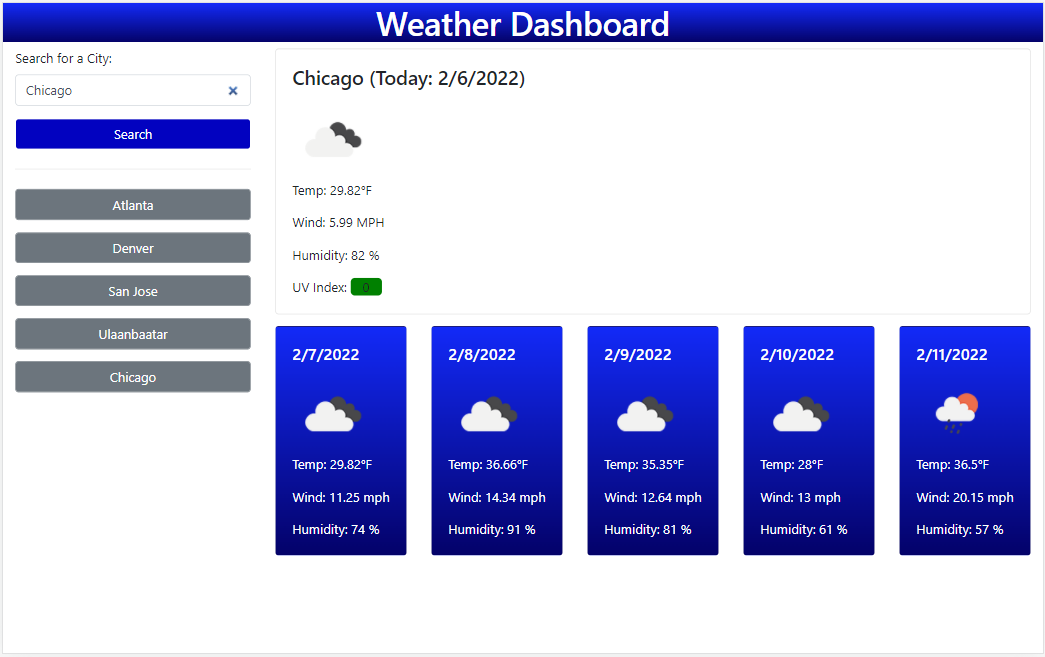
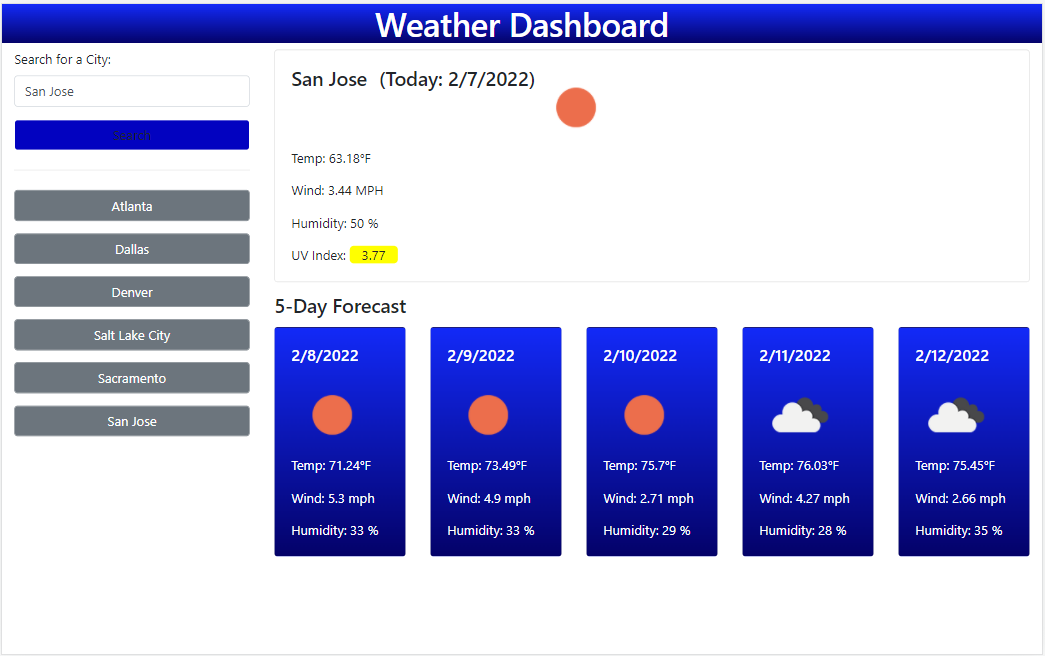
Checks city name then save the name

diff --git a/assets/js/script.js b/assets/js/script.js
@@ -5,8 +5,9 @@ let today = moment();
 const searchBtn = document.getElementById("search-button");
 const cityName = document.getElementById("city-name");
 const searchCity = document.getElementById("search-city");
-const currentCity = document.getElementById("current-city");
 
+const currentCity = document.getElementById("current-city");
+const currentDate = document.getElementById("current-date");
 const currentIcon = document.getElementById("current-icon");
 const currentTemp = document.getElementById("current-temp");
 const currentWind = document.getElementById("current-wind");
@@ -44,27 +45,12 @@ const day5Wind = document.getElementById("day5-wind");
 const day5Humid = document.getElementById("day5-humid");
 
 const cityArray = [];
-let checkCity = "";
 
 function getCityName(event) {
   event.preventDefault();
   const city = cityName.value;
   if (city) {
     getApi(city);
-    console.log(checkCity);
-    if (checkCity === city) {
-      // Create new button for the searched city
-      const newBtn = document.createElement('button');
-      newBtn.classList.add("form-control");
-      newBtn.classList.add("btn");
-      newBtn.classList.add("btn-secondary");
-      newBtn.classList.add("add-space");
-      newBtn.textContent = city;
-      searchCity.appendChild(newBtn);
-      // Save the searched city
-      cityArray.push(city);
-      localStorage.setItem("city", JSON.stringify(cityArray));
-    }
   }
 }
 
@@ -75,77 +61,89 @@ function showForecast(event) {
   getApi(city);
 }
 
-function getApi(cityName) {
+function getApi(newCity) {
 
-  const weatherUrl = `http://api.openweathermap.org/geo/1.0/direct?q=${cityName}&limit=1&appid=${myApiKey}`;
+  const weatherUrl = `http://api.openweathermap.org/geo/1.0/direct?q=${newCity}&limit=1&appid=${myApiKey}`;
 
   fetch(weatherUrl)
     .then(function (response) {
+      console.log(response);
       if (response.ok) {
         response.json().then(function (data) {
-          checkCity = data[0].name;
-          if (checkCity === cityName) {
-          const lat = data[0].lat;
-          const lon = data[0].lon;
+          const checkCity = data[0].name;
+          console.log(checkCity);
+          if (checkCity === newCity) {
+            const lat = data[0].lat;
+            const lon = data[0].lon;
 
-          const newWeatherUrl = `https://api.openweathermap.org/data/2.5/onecall?lat=${lat}&lon=${lon}&appid=${myApiKey}&units=imperial`;
+            const newWeatherUrl = `https://api.openweathermap.org/data/2.5/onecall?lat=${lat}&lon=${lon}&appid=${myApiKey}&units=imperial`;
 
-          fetch(newWeatherUrl)
-          .then(function (response) {
-            return response.json();
-          })
-          .then(function (data) {
-            console.log(data);
-            // Current forecast
-            currentCity.textContent = checkCity + " (Today: " + today.format("l") + ")";
-            currentIcon.setAttribute("src", "http://openweathermap.org/img/wn/" + data.current.weather[0].icon + "@2x.png");
-            currentTemp.textContent = data.current.temp + "°F";
-            currentWind.textContent = data.current.wind_speed + " MPH";
-            currentHumid.textContent = data.current.humidity + " %";
-            currentUvi.textContent = data.current.uvi;
-            colorUvi(data.current.uvi);
-            // Day 1 forecast
-            day1Date.textContent = today.add(1, 'd').format("l");
-            day1Icon.setAttribute("src", "http://openweathermap.org/img/wn/" + data.daily[0].weather[0].icon + "@2x.png");
-            day1Temp.textContent = data.daily[0].temp.max + "°F";
-            day1Wind.textContent = data.daily[0].wind_speed + " mph";
-            day1Humid.textContent = data.daily[0].humidity + " %";
-            // Day 2 forecast
-            day2Date.textContent = today.add(1, 'd').format("l");
-            day2Icon.setAttribute("src", "http://openweathermap.org/img/wn/" + data.daily[1].weather[0].icon + "@2x.png");
-            day2Temp.textContent = data.daily[1].temp.max + "°F";
-            day2Wind.textContent = data.daily[1].wind_speed + " mph";
-            day2Humid.textContent = data.daily[1].humidity + " %";
-            // Day 3 forecast
-            day3Date.textContent = today.add(1, 'd').format("l");
-            day3Icon.setAttribute("src", "http://openweathermap.org/img/wn/" + data.daily[2].weather[0].icon + "@2x.png");
-            day3Temp.textContent = data.daily[2].temp.max + "°F";
-            day3Wind.textContent = data.daily[2].wind_speed + " mph";
-            day3Humid.textContent = data.daily[2].humidity + " %";
-            // Day 4 forecast
-            day4Date.textContent = today.add(1, 'd').format("l");
-            day4Icon.setAttribute("src", "http://openweathermap.org/img/wn/" + data.daily[3].weather[0].icon + "@2x.png");
-            day4Temp.textContent = data.daily[3].temp.max + "°F";
-            day4Wind.textContent = data.daily[3].wind_speed + " mph";
-            day4Humid.textContent = data.daily[3].humidity + " %";
-            // Day 5 forecast
-            day5Date.textContent = today.add(1, 'd').format("l");
-            day5Icon.setAttribute("src", "http://openweathermap.org/img/wn/" + data.daily[4].weather[0].icon + "@2x.png");
-            day5Temp.textContent = data.daily[4].temp.max + "°F";
-            day5Wind.textContent = data.daily[4].wind_speed + " mph";
-            day5Humid.textContent = data.daily[4].humidity + " %";
-            // Change date ???
-            today = moment();
-          });
-        } else {
-          alert("Check the city name!");
-        }
-      });
-    }
-    else {
-      alert("Check the city name!");
-    }
-  });
+            fetch(newWeatherUrl)
+              .then(function (response) {
+                return response.json();
+              })
+              .then(function (data) {
+                console.log(data);
+                // Current forecast
+                currentCity.textContent = checkCity;
+                currentDate.textContent = "(Today: " + today.format("l") + ")";
+                currentIcon.setAttribute("src", "http://openweathermap.org/img/wn/" + data.current.weather[0].icon + "@2x.png");
+                currentTemp.textContent = data.current.temp + "°F";
+                currentWind.textContent = data.current.wind_speed + " MPH";
+                currentHumid.textContent = data.current.humidity + " %";
+                currentUvi.textContent = data.current.uvi;
+                colorUvi(data.current.uvi);
+                // Day 1 forecast
+                day1Date.textContent = today.add(1, 'd').format("l");
+                day1Icon.setAttribute("src", "http://openweathermap.org/img/wn/" + data.daily[1].weather[0].icon + "@2x.png");
+                day1Temp.textContent = data.daily[1].temp.max + "°F";
+                day1Wind.textContent = data.daily[1].wind_speed + " mph";
+                day1Humid.textContent = data.daily[1].humidity + " %";
+                // Day 2 forecast
+                day2Date.textContent = today.add(1, 'd').format("l");
+                day2Icon.setAttribute("src", "http://openweathermap.org/img/wn/" + data.daily[2].weather[0].icon + "@2x.png");
+                day2Temp.textContent = data.daily[2].temp.max + "°F";
+                day2Wind.textContent = data.daily[2].wind_speed + " mph";
+                day2Humid.textContent = data.daily[2].humidity + " %";
+                // Day 3 forecast
+                day3Date.textContent = today.add(1, 'd').format("l");
+                day3Icon.setAttribute("src", "http://openweathermap.org/img/wn/" + data.daily[3].weather[0].icon + "@2x.png");
+                day3Temp.textContent = data.daily[3].temp.max + "°F";
+                day3Wind.textContent = data.daily[3].wind_speed + " mph";
+                day3Humid.textContent = data.daily[3].humidity + " %";
+                // Day 4 forecast
+                day4Date.textContent = today.add(1, 'd').format("l");
+                day4Icon.setAttribute("src", "http://openweathermap.org/img/wn/" + data.daily[4].weather[0].icon + "@2x.png");
+                day4Temp.textContent = data.daily[4].temp.max + "°F";
+                day4Wind.textContent = data.daily[4].wind_speed + " mph";
+                day4Humid.textContent = data.daily[4].humidity + " %";
+                // Day 5 forecast
+                day5Date.textContent = today.add(1, 'd').format("l");
+                day5Icon.setAttribute("src", "http://openweathermap.org/img/wn/" + data.daily[5].weather[0].icon + "@2x.png");
+                day5Temp.textContent = data.daily[5].temp.max + "°F";
+                day5Wind.textContent = data.daily[5].wind_speed + " mph";
+                day5Humid.textContent = data.daily[5].humidity + " %";
+                today = moment();
+                if (!cityArray.includes(checkCity)) {
+                  // Create new button for the searched city
+                  const newBtn = document.createElement('button');
+                  newBtn.classList.add("form-control");
+                  newBtn.classList.add("btn");
+                  newBtn.classList.add("btn-secondary");
+                  newBtn.classList.add("add-space");
+                  newBtn.textContent = checkCity;
+                  searchCity.appendChild(newBtn);
+                  // Save the searched city
+                  cityArray.push(checkCity);
+                  localStorage.setItem("city", JSON.stringify(cityArray));
+                }
+              });
+          } else {
+            alert("Check the city name!");
+          }
+        });
+      }
+    });
 }
 
 // color the UV index

diff --git a/index.html b/index.html
@@ -35,8 +35,9 @@
             <div class="col col-9">  <!-- Today's Forecast -->
                 <div class="card add-space">
                     <div class="card-body">
-                        <div>
+                        <div class="today">
                             <h4 class="card-title" id="current-city"></h4>
+                            <h4 class="card-title" id="current-date"></h4>
                             <img src="" alt="Weather Icon" id="current-icon">
                         </div>
                         <p class="card-text">Temp: <span id="current-temp"></span></p>
@@ -45,7 +46,8 @@
                         <p class="card-text">UV Index: <span id="current-index" class="uv-index"></span></p>
                     </div>
                 </div>
-                <div class="row">   <!-- 5 Day-Forecast -->
+                <h4 class="card-title">5-Day Forecast</h4>
+                <div class="row">   
                     <div class="col">
                         <div class="card small-card">
                             <div class="card-body">

diff --git a/assets/css/style.css b/assets/css/style.css
@@ -13,6 +13,10 @@ header {
     color: white;
 }
 
+#current-date {
+    padding-left: 15px;
+}
+
 .container {
     margin: 0;
     max-width: 100%;
@@ -40,4 +44,10 @@ header {
 .btn-search {
     background-color: rgb(2, 2, 192);
     color: white;
+}
+
+.today {
+    display: flex;
+    flex-direction: row;
+    align-items: flex-center;
 }
